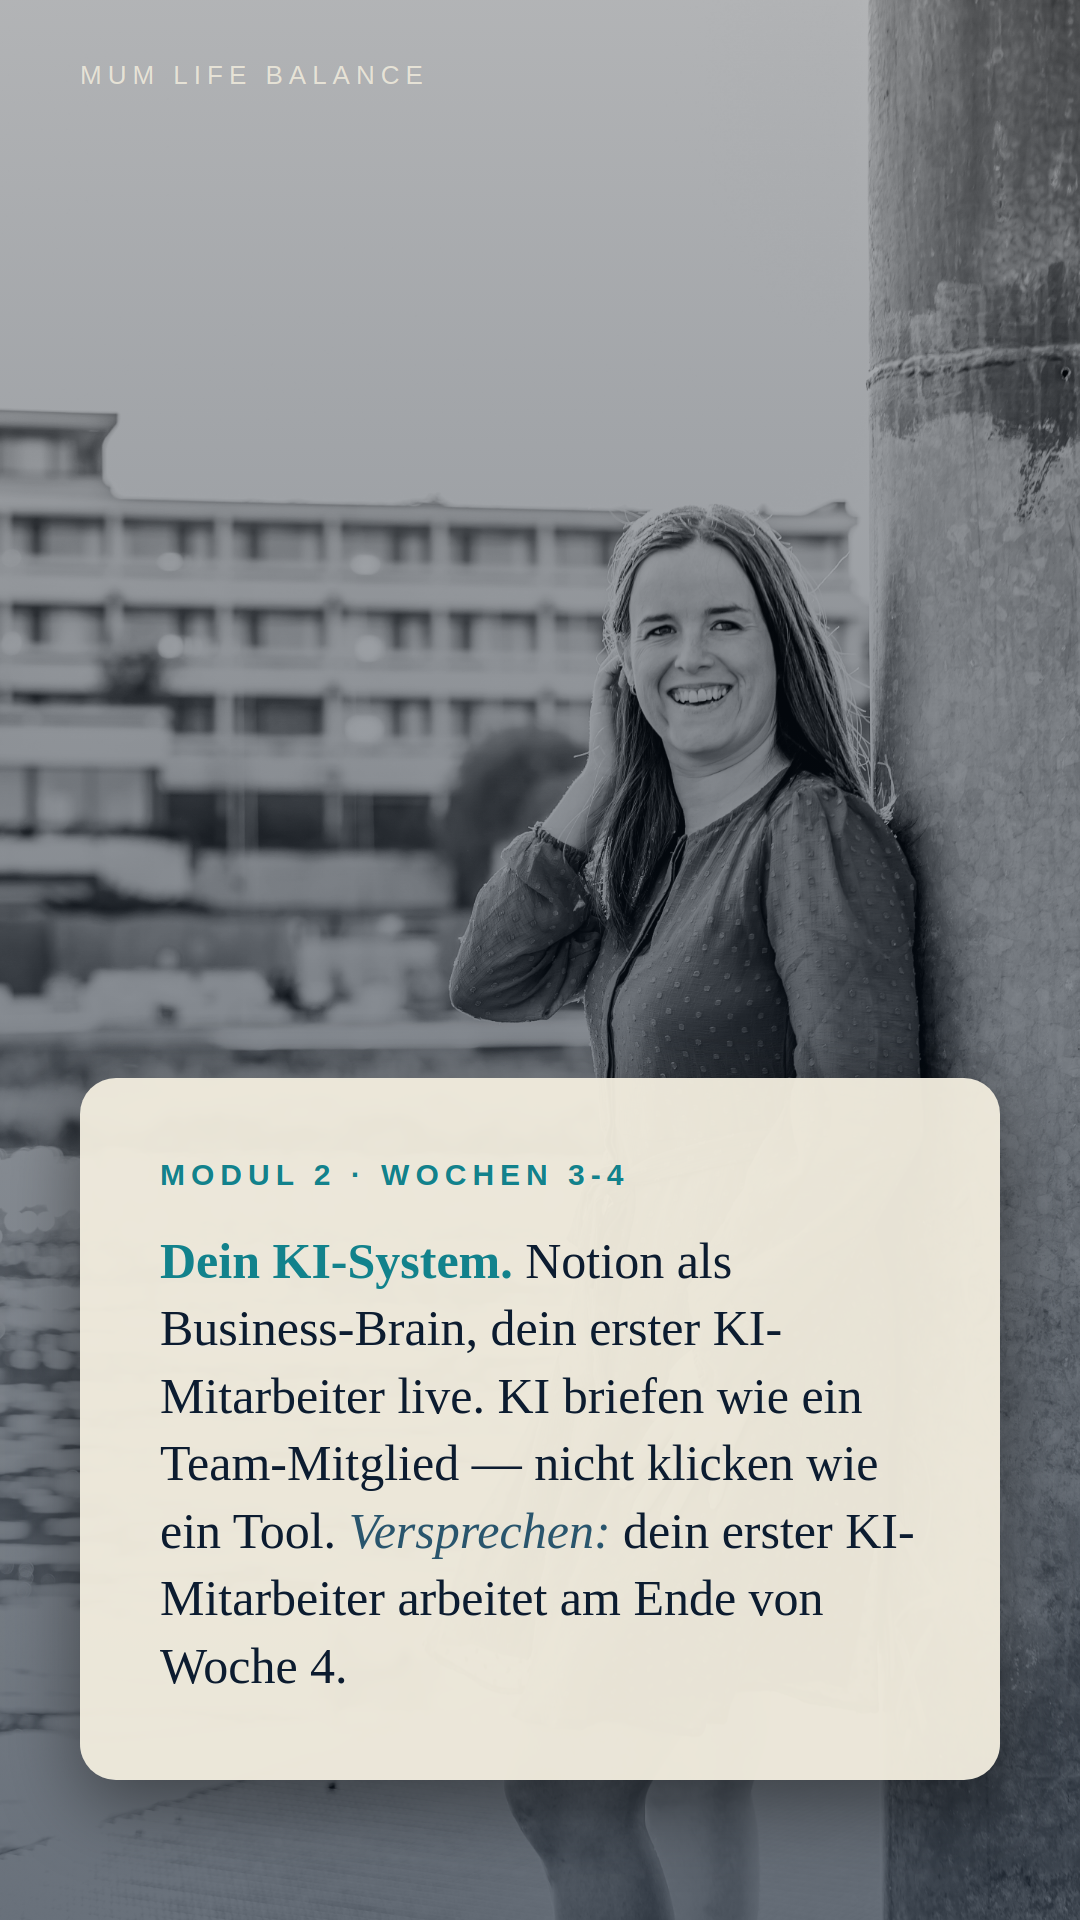
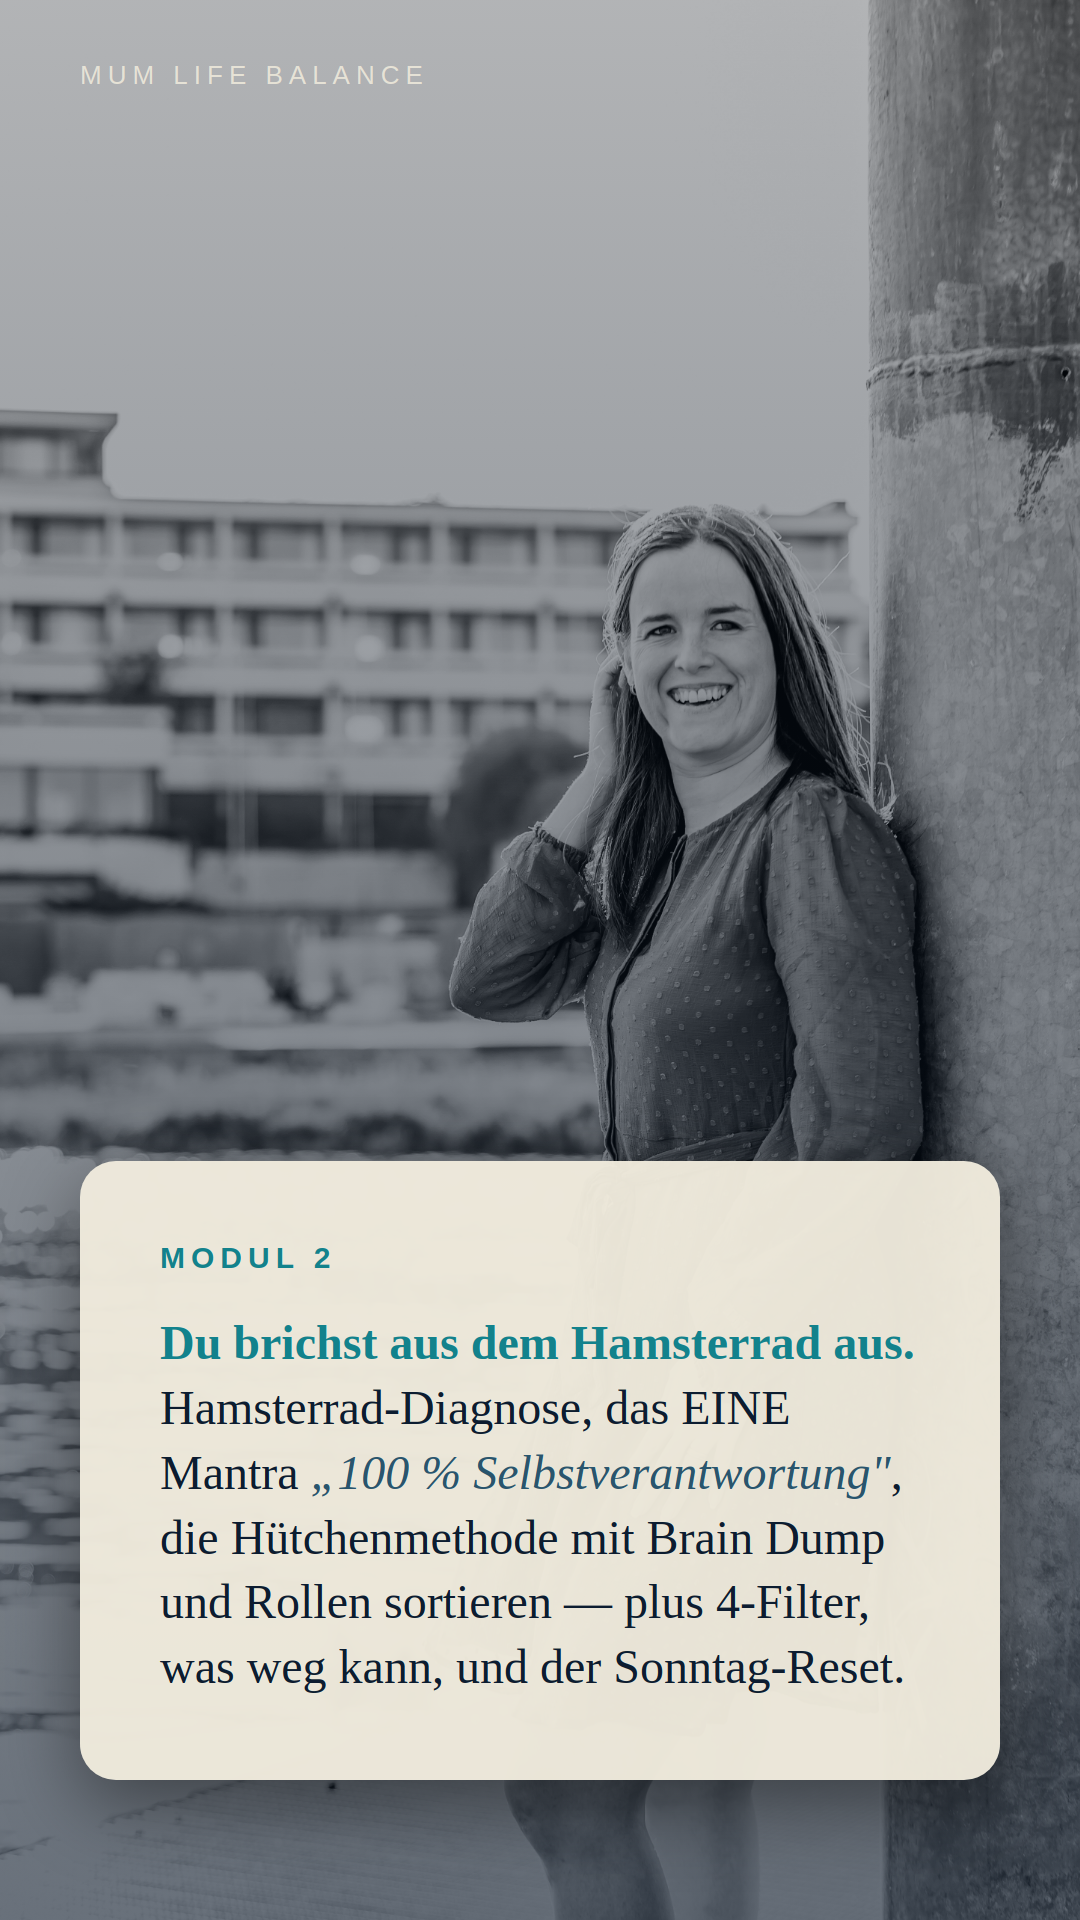
story: Tag 7 v4 — echte Mama-CEO-Modulstruktur aus Thrivecart-Screenshots
Patricia: Inhalt stimmt nicht. Drei Screenshots vom echten Kurs auf
mumlifebalance.thrivecart.com geliefert. 01-inhaltsverzeichnis.md war
veraltet — die echte Struktur ist anders.

Komplett neu mit den ECHTEN Modulnamen und Lektionen aus Thrivecart:

- Slide 1: Hook · Bus Katowice (alle 5 Module, nicht 4)
- Slide 2: Modul 1 · Du erschaffst dir die Zeit (4 Rollen, 3 Saeulen
  Plattform/Produkt/Verkauf, Wochenrhythmus)
- Slide 3: Modul 2 · Du brichst aus dem Hamsterrad aus (Hamsterrad-
  Diagnose, 100% Selbstverantwortung, Huetchenmethode, 4-Filter,
  Sonntag-Reset)
- Slide 4: Modul 3 · Du baust die Struktur (Notion Business-Brain,
  5 Kern-Workflows, Master-Template, Notfall-Modus 50%-Plan fuer
  Kinder-Kranktage)
- Slide 5: Modul 4 · Du delegierst den Adminkram (KI-Mythos, Custom
  GPT vs Claude vs ChatGPT, Business-Brief, Cockpit-Bot, Haushalts-
  Helfer-Bot, Bot-Audit)
- Slide 6: Modul 5 · Du skalierst dein Business (Mama-CEO-Matrix,
  25 Tasks sortieren, 1:1-Beziehungen schuetzen, 90-Tage-Wachstums-
  Plan, was JETZT NICHT)
- Slide 7: Plus · 4 Live-Calls + Telegram-Gruppe + Patricia-DM
- Slide 8: Status + Knappheit
- Slide 9: CTA Card top

ZERO Inhalte aus dem alten Inhaltsverzeichnis vermischt. Alle Lektions-
namen direkt aus den Screenshots uebernommen. Keine Wochen-Zuordnung
pro Modul angegeben (Screenshots zeigen nur „1 Modul pro 2 Wochen"
allgemein).

Changed region(s): [[0.0611, 0.5625, 0.9472, 0.875]]

diff --git a/outputs/stories/2026-05-27-salesday-mentoring-mama-ceo-launch-tag-7-katowice/slides.html b/outputs/stories/2026-05-27-salesday-mentoring-mama-ceo-launch-tag-7-katowice/slides.html
@@ -2,7 +2,7 @@
 <html lang="de">
 <head>
 <meta charset="UTF-8">
-<title>Mama-CEO Launch Tag 7 · 27.5.2026 · Katowice · Alle Module · 8 Slides</title>
+<title>Mama-CEO Launch Tag 7 · 27.5.2026 · Katowice · Alle 5 Module · 9 Slides</title>
 <link rel="stylesheet" href="../../../scripts/karussell-render/brand-stories.css">
 <style>
   .slide.foto-slide { width:1080px; height:1920px; position:relative; overflow:hidden; background:#0c1c30; page-break-after:always; break-after:page; }
@@ -12,7 +12,7 @@
   .foto-slide .card.top { bottom:auto; top:140px; }
   .foto-slide .card.center { top:50%; bottom:auto; transform:translateY(-50%); }
   .foto-slide .card-eyebrow { font-family:'Source Sans 3',sans-serif; font-size:30px; font-weight:700; letter-spacing:6px; text-transform:uppercase; color:#12828c; margin-bottom:36px; }
-  .foto-slide .card-text { font-family:'Philosopher',serif; font-size:50px; font-weight:400; line-height:1.35; color:#0c1c30; }
+  .foto-slide .card-text { font-family:'Philosopher',serif; font-size:48px; font-weight:400; line-height:1.35; color:#0c1c30; }
   .foto-slide .card-text strong { color:#12828c; font-weight:700; }
   .foto-slide .card-text em { font-style:italic; color:#29556d; }
   .foto-slide .card-text.hook { font-size:62px; line-height:1.25; font-weight:700; }
@@ -24,7 +24,7 @@
 
 <div class="grid">
 
-  <!-- SLIDE 1: HOOK · Bus nach Katowice + Modul-Übersicht-Setup -->
+  <!-- SLIDE 1: HOOK · Bus Katowice + Modul-Übersicht -->
   <div class="stage-wrap">
     <div class="stage">
       <div class="slide foto-slide">
@@ -34,7 +34,7 @@
         <div class="card">
           <div class="card-eyebrow">Mittwoch · 16:00 Uhr</div>
           <div class="card-text hook">
-            Während ich im <strong>Bus ins Zentrum von Katowice</strong> sitze, erklär ich dir alle vier Module von Mama-CEO. Eine Slide pro Modul. Damit du weisst, wofür du dich entscheidest.
+            Während ich im <strong>Bus ins Zentrum von Katowice</strong> sitze, erklär ich dir alle fünf Module von Mama-CEO. Eine Slide pro Modul. Damit du weisst, wofür du dich entscheidest.
           </div>
         </div>
       </div>
@@ -42,7 +42,7 @@
     <div class="frame-label">01 Hook · Bus Katowice + Modul-Übersicht</div>
   </div>
 
-  <!-- SLIDE 2: MODUL 1 · Mindset-Reset -->
+  <!-- SLIDE 2: MODUL 1 · Du erschaffst dir die Zeit -->
   <div class="stage-wrap">
     <div class="stage">
       <div class="slide foto-slide">
@@ -50,17 +50,17 @@
         <div class="dim"></div>
         <div class="brand-tag">Mum Life Balance</div>
         <div class="card">
-          <div class="card-eyebrow">Modul 1 · Wochen 1-2</div>
+          <div class="card-eyebrow">Modul 1</div>
           <div class="card-text">
-            <strong>Mindset-Reset für Mama-CEO.</strong> Du findest deine 5 CEO-Aufgaben und baust deinen Wochenrhythmus mit Power-Window, Mama-Slots, Business-Slots und Erschöpfungs-Wand. <em>Versprechen:</em> alles ausser deinen 5 Aufgaben wird delegiert oder automatisiert.
+            <strong>Du erschaffst dir die Zeit.</strong> Du findest deine echte Fokuszeit, baust den Wochenrhythmus mit <em>4 Rollen</em> und lernst die 3 Säulen: Plattform · Produkt · Verkauf.
           </div>
         </div>
       </div>
     </div>
-    <div class="frame-label">02 Modul 1 · Mindset-Reset</div>
+    <div class="frame-label">02 Modul 1 · Zeit</div>
   </div>
 
-  <!-- SLIDE 3: MODUL 2 · KI-System -->
+  <!-- SLIDE 3: MODUL 2 · Du brichst aus dem Hamsterrad aus -->
   <div class="stage-wrap">
     <div class="stage">
       <div class="slide foto-slide">
@@ -68,17 +68,17 @@
         <div class="dim"></div>
         <div class="brand-tag">Mum Life Balance</div>
         <div class="card">
-          <div class="card-eyebrow">Modul 2 · Wochen 3-4</div>
+          <div class="card-eyebrow">Modul 2</div>
           <div class="card-text">
-            <strong>Dein KI-System.</strong> Notion als Business-Brain, dein erster KI-Mitarbeiter live. KI briefen wie ein Team-Mitglied — nicht klicken wie ein Tool. <em>Versprechen:</em> dein erster KI-Mitarbeiter arbeitet am Ende von Woche 4.
+            <strong>Du brichst aus dem Hamsterrad aus.</strong> Hamsterrad-Diagnose, das EINE Mantra <em>„100 % Selbstverantwortung"</em>, die Hütchenmethode mit Brain Dump und Rollen sortieren — plus 4-Filter, was weg kann, und der Sonntag-Reset.
           </div>
         </div>
       </div>
     </div>
-    <div class="frame-label">03 Modul 2 · KI-System</div>
+    <div class="frame-label">03 Modul 2 · Hamsterrad</div>
   </div>
 
-  <!-- SLIDE 4: MODUL 3 · Akquise-Funnel -->
+  <!-- SLIDE 4: MODUL 3 · Du baust die Struktur -->
   <div class="stage-wrap">
     <div class="stage">
       <div class="slide foto-slide">
@@ -86,17 +86,17 @@
         <div class="dim"></div>
         <div class="brand-tag">Mum Life Balance</div>
         <div class="card">
-          <div class="card-eyebrow">Modul 3 · Wochen 5-6</div>
+          <div class="card-eyebrow">Modul 3</div>
           <div class="card-text">
-            <strong>Akquise-KI: DMs auf Autopilot.</strong> Die 5-Schritt-Kette <em>Reel → Keyword → Bot → Mail → Verkauf</em> — gebaut, getestet, live. <em>Versprechen:</em> dein Funnel läuft, auch wenn du am Flughafen sitzt.
+            <strong>Du baust die Struktur.</strong> Notion als dein <em>Business-Brain</em>, die 5 Kern-Workflows einer Mama-CEO, dein eigenes Notion-Master-Template komplett eingerichtet. Plus Notfall-Modus: der 50%-Plan für Kinder-Kranktage.
           </div>
         </div>
       </div>
     </div>
-    <div class="frame-label">04 Modul 3 · Akquise-Funnel</div>
+    <div class="frame-label">04 Modul 3 · Struktur</div>
   </div>
 
-  <!-- SLIDE 5: MODUL 4 · Service-KI -->
+  <!-- SLIDE 5: MODUL 4 · Du delegierst den Adminkram -->
   <div class="stage-wrap">
     <div class="stage">
       <div class="slide foto-slide">
@@ -104,17 +104,17 @@
         <div class="dim"></div>
         <div class="brand-tag">Mum Life Balance</div>
         <div class="card">
-          <div class="card-eyebrow">Modul 4 · Wochen 7-8</div>
+          <div class="card-eyebrow">Modul 4</div>
           <div class="card-text">
-            <strong>Service-KI: Skalierung ohne Burn-out.</strong> Kundinnen-Bibliothek-Bot für FAQ, automatisches Onboarding für Kurs-Kundinnen, E-Mail-Assistent für die Inbox. <em>Versprechen:</em> deine Kundinnen werden ohne dich begleitet — du bist Coach im Hintergrund, nicht Sklavin der Inbox.
+            <strong>Du delegierst den Adminkram.</strong> KI-Mythos vs. Realität, Custom GPT vs. Claude Project vs. ChatGPT — was wann. Business-Brief schreiben, Cockpit-Bot bauen, <em>Haushalts-Helfer-Bot</em> bauen, plus Bot-Audit + KI-Wochenplan.
           </div>
         </div>
       </div>
     </div>
-    <div class="frame-label">05 Modul 4 · Service-KI</div>
+    <div class="frame-label">05 Modul 4 · Delegieren</div>
   </div>
 
-  <!-- SLIDE 6: BONUS · Content-KI + Live-Calls + Community -->
+  <!-- SLIDE 6: MODUL 5 · Du skalierst dein Business -->
   <div class="stage-wrap">
     <div class="stage">
       <div class="slide foto-slide">
@@ -122,17 +122,35 @@
         <div class="dim"></div>
         <div class="brand-tag">Mum Life Balance</div>
         <div class="card">
-          <div class="card-eyebrow">Plus · alles dabei</div>
+          <div class="card-eyebrow">Modul 5</div>
           <div class="card-text">
-            <strong>Bonus-Modul Content-KI:</strong> Brand-Voice-Doc, Hook-Bot, Karussell-Bot — Content-Wochenpipeline in 30 Min. Dazu <strong>4 Live-Calls</strong> mit mir und die <strong>Telegram-Community</strong> für 8 Wochen Sparring.
+            <strong>Du skalierst dein Business.</strong> Mama-CEO-Matrix einführen, 25 Tasks sortieren, was <em>DEINS</em> bleibt (1:1-Beziehungen schützen) — plus 90-Tage-Wachstums-Plan und was JETZT NICHT.
           </div>
         </div>
       </div>
     </div>
-    <div class="frame-label">06 Bonus + Live-Calls + Community</div>
+    <div class="frame-label">06 Modul 5 · Skalieren</div>
   </div>
 
-  <!-- SLIDE 7: STATUS + KNAPPHEIT -->
+  <!-- SLIDE 7: PLUS · Live-Calls + Telegram-Community -->
+  <div class="stage-wrap">
+    <div class="stage">
+      <div class="slide foto-slide">
+        <img class="bg" src="fotos/slide-07-live-community.jpg" alt="">
+        <div class="dim"></div>
+        <div class="brand-tag">Mum Life Balance</div>
+        <div class="card">
+          <div class="card-eyebrow">Plus · alles dabei</div>
+          <div class="card-text">
+            <strong>4 Live-Calls</strong> mit Q&amp;A und Begleitung. Eine <strong>Telegram-Gruppe</strong> für täglichen Austausch mit den anderen Mama-CEOs. Und Patricia in der DM, wenn's irgendwo klemmt.
+          </div>
+        </div>
+      </div>
+    </div>
+    <div class="frame-label">07 Live + Community</div>
+  </div>
+
+  <!-- SLIDE 8: STATUS + KNAPPHEIT -->
   <div class="stage-wrap">
     <div class="stage">
       <div class="slide foto-slide">
@@ -147,10 +165,10 @@
         </div>
       </div>
     </div>
-    <div class="frame-label">07 Status + Knappheit</div>
+    <div class="frame-label">08 Status + Knappheit</div>
   </div>
 
-  <!-- SLIDE 8: CTA (Card top, Link-Sticker-Slot unten) -->
+  <!-- SLIDE 9: CTA (Card top, Link-Sticker-Slot unten) -->
   <div class="stage-wrap">
     <div class="stage">
       <div class="slide foto-slide">
@@ -165,11 +183,10 @@
         </div>
       </div>
     </div>
-    <div class="frame-label">08 CTA · Link-Sticker-Slot unten</div>
+    <div class="frame-label">09 CTA · Link-Sticker-Slot unten</div>
   </div>
 
 </div>
 
 </body>
 </html>
-
